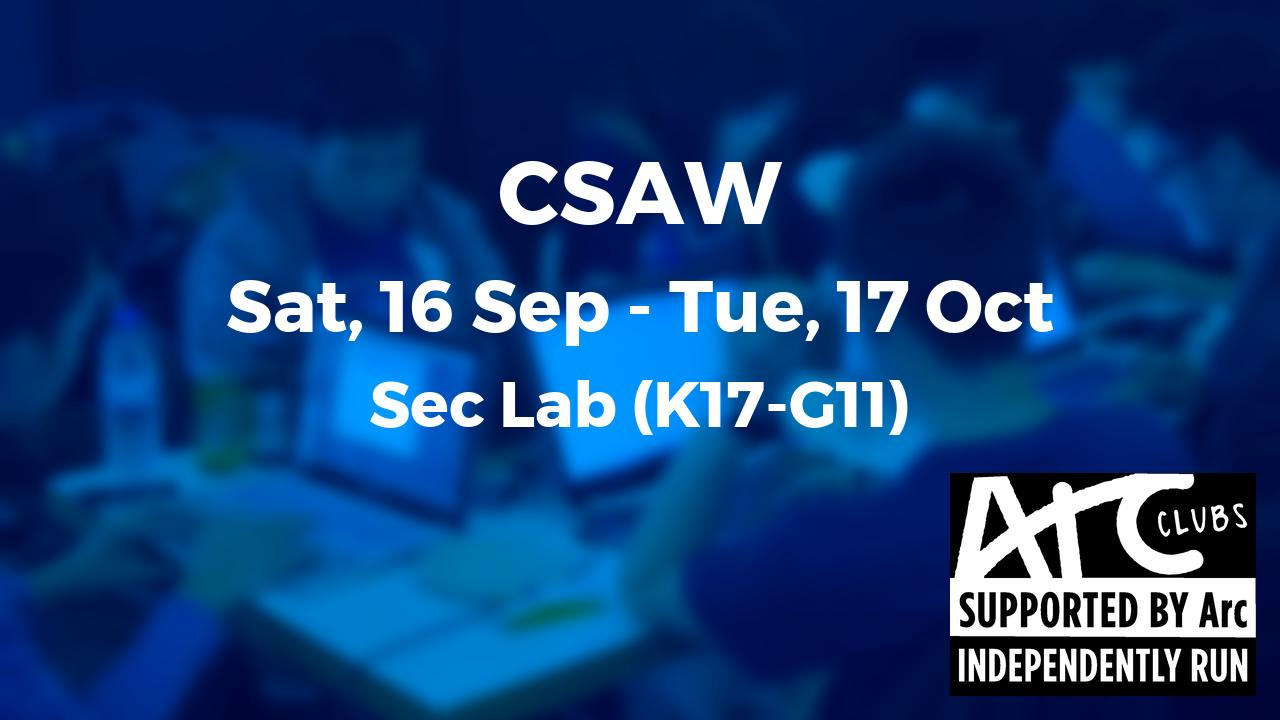
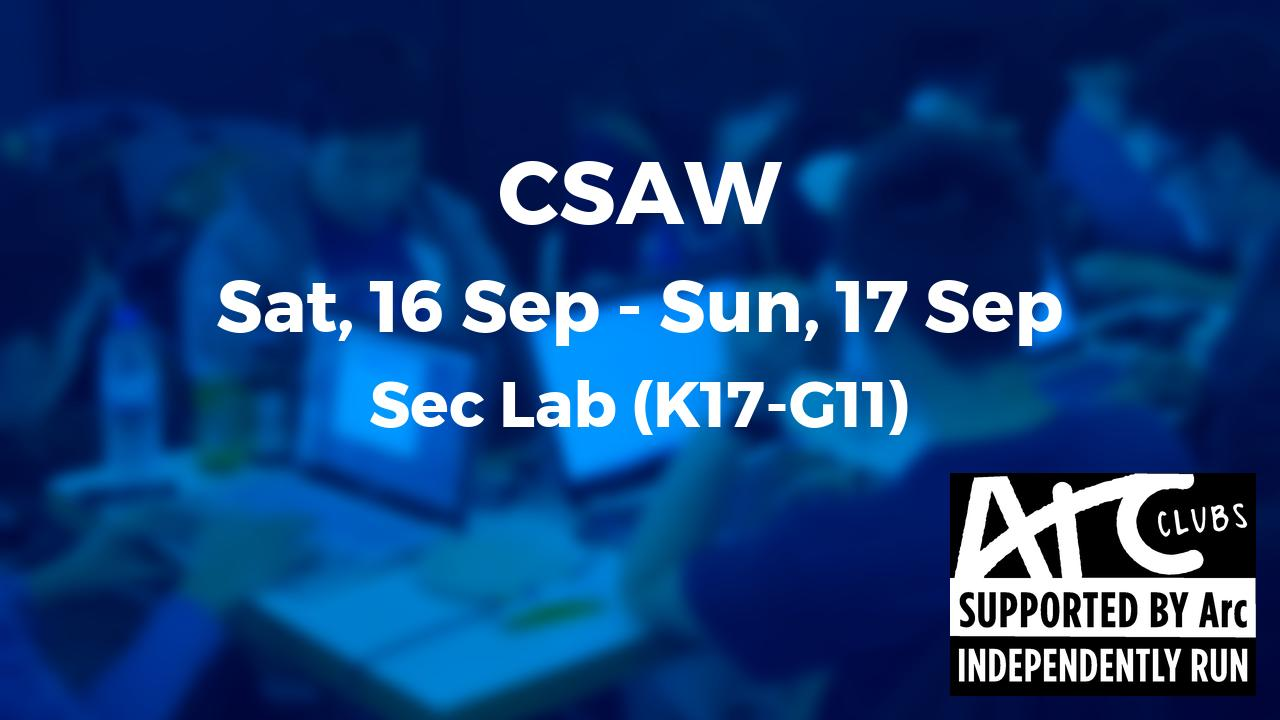
Fix event dates

Changed region(s): [[0.1562, 0.3667, 0.625, 0.4889], [0.7188, 0.3972, 0.8438, 0.4889], [0.6562, 0.3972, 0.6875, 0.4583]]

diff --git a/_events/17s2-w08-CSAW.md b/_events/17s2-w08-CSAW.md
@@ -1,7 +1,7 @@
 ---
 title: CSAW
 start: 2017-09-16T06:00
-end: 2017-10-17T21:00
+end: 2017-09-17T21:00
 facebook: https://www.facebook.com/events/369362973478069/
 location: Sec Lab (K17-G11)
 slack: ctfs
